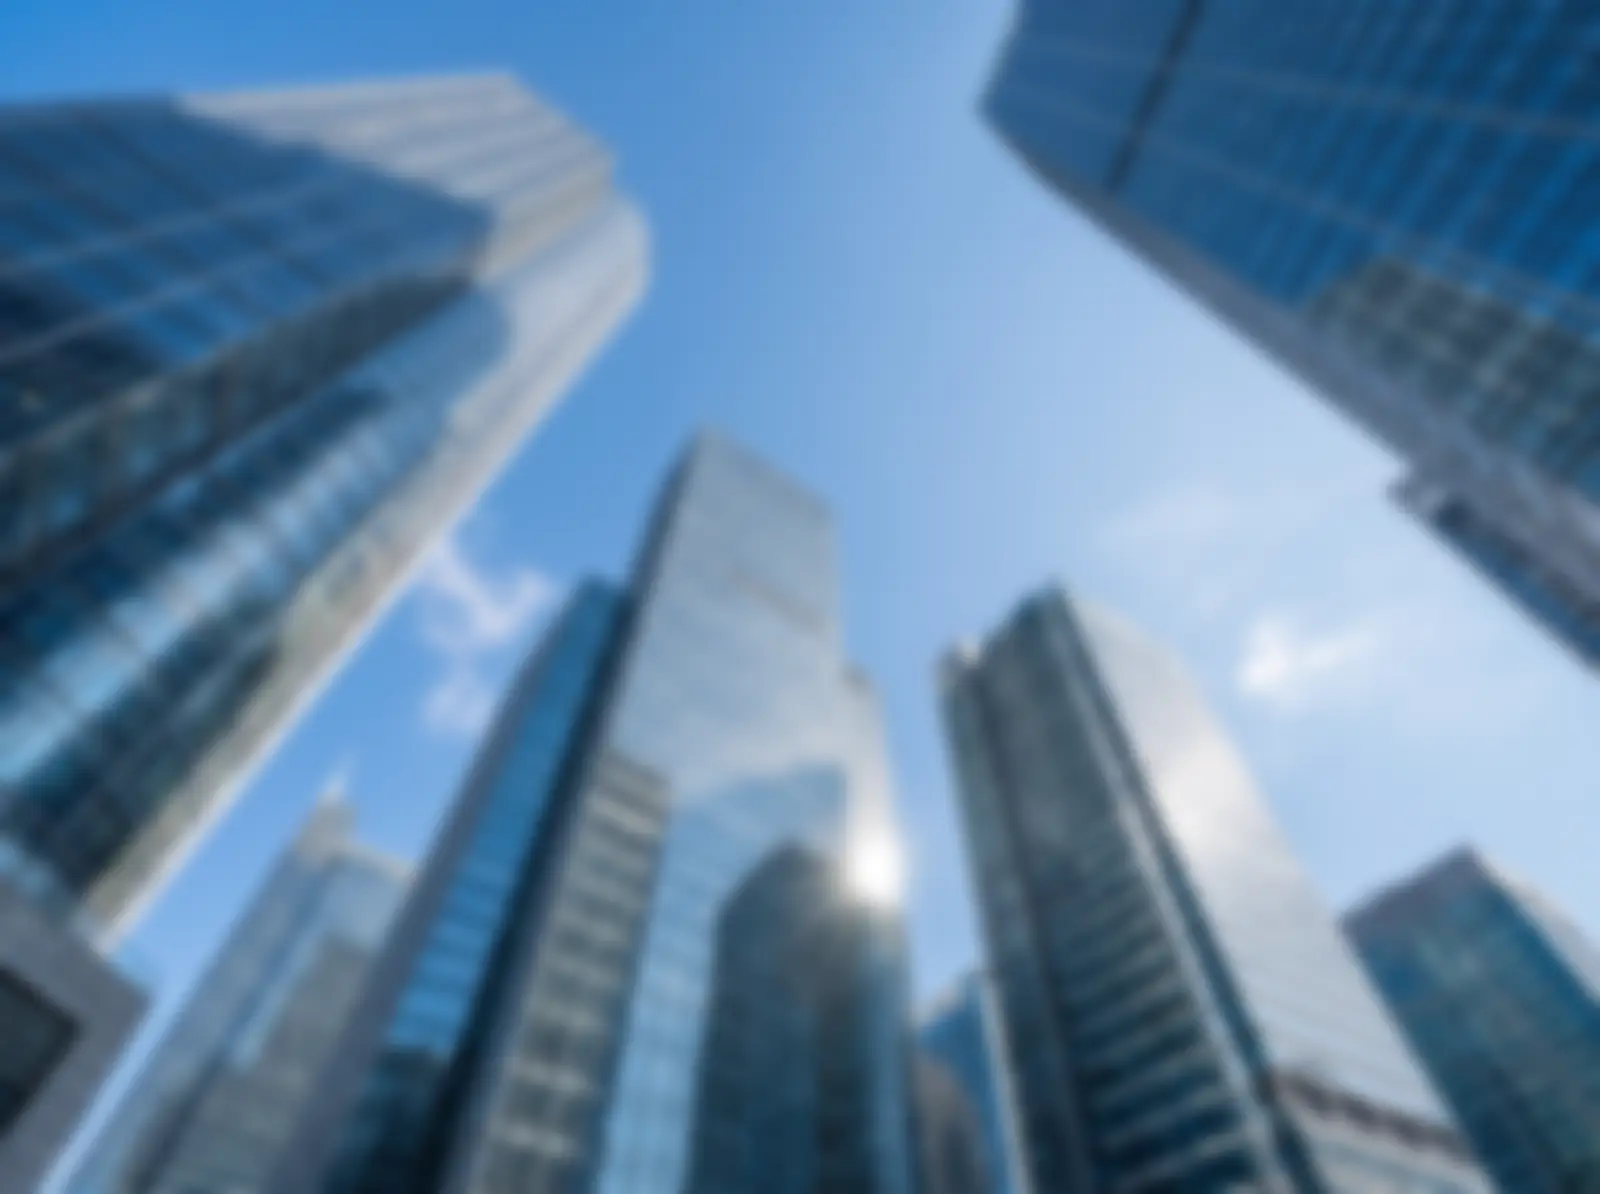
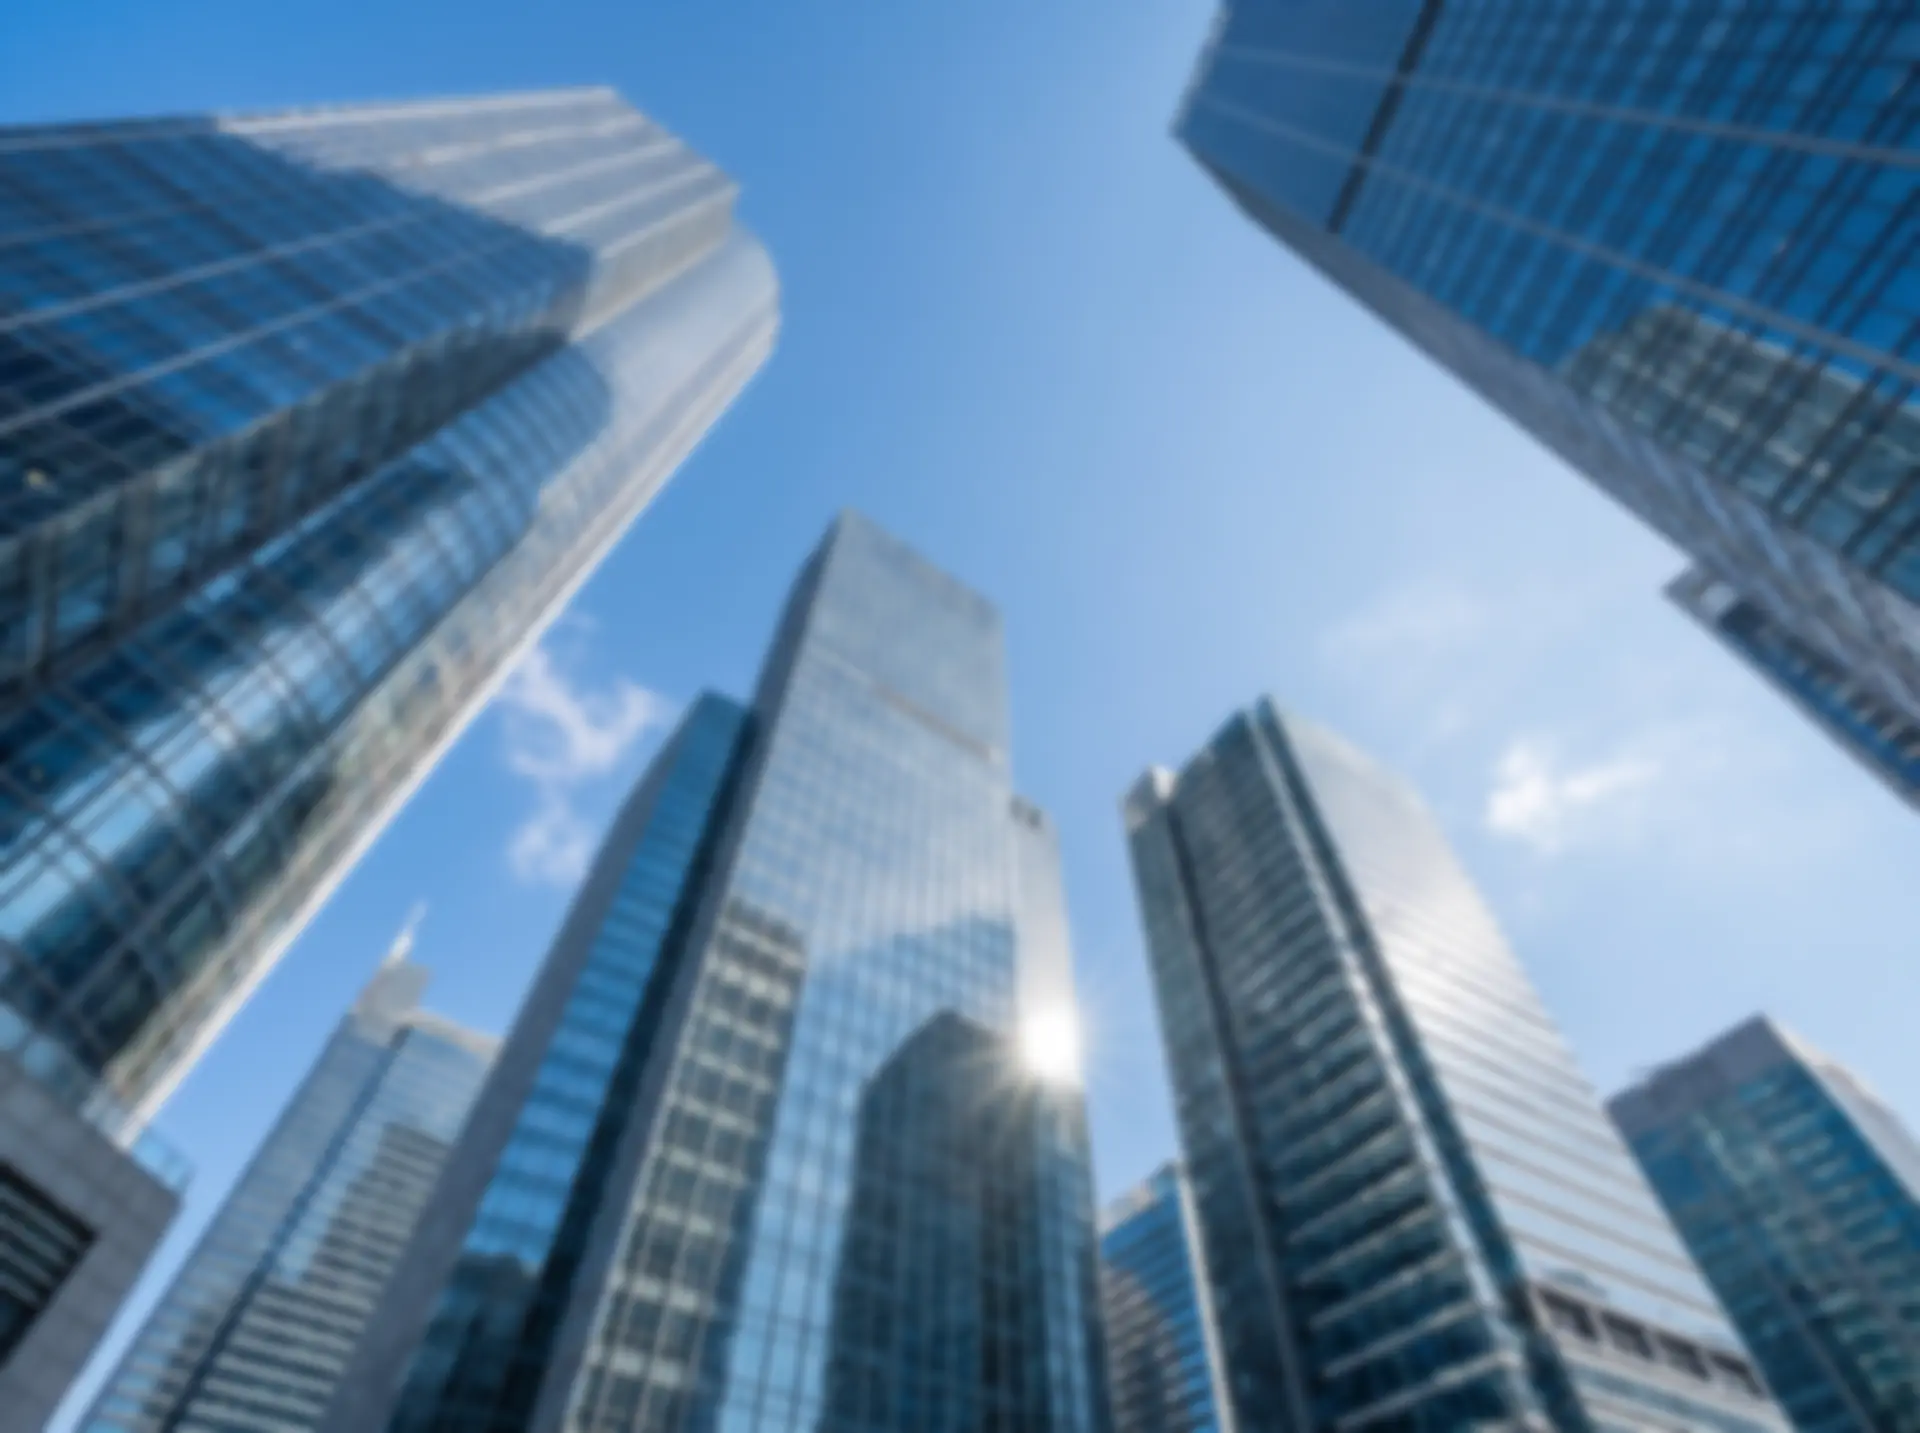
fix: aumenta la visibilidad del fondo de edificios en el hero
- Sube la opacidad de 0.16 a 0.4 y ajusta el encuadre para mostrar más masa de edificio (antes se veía casi todo cielo)
- Regenera la imagen con menos difuminado y mayor resolución para que se distinga mejor
- Confirmado que ya cubría el 100% de la sección; el problema era solo la baja opacidad

diff --git a/index.html b/index.html
@@ -276,8 +276,8 @@ ul{list-style:none;}
   inset:0;
   background-image:url('hero-bg-edificios.webp');
   background-size:cover;
-  background-position:center 30%;
-  opacity:.16;
+  background-position:center 55%;
+  opacity:.4;
   z-index:0;
   pointer-events:none;
 }
